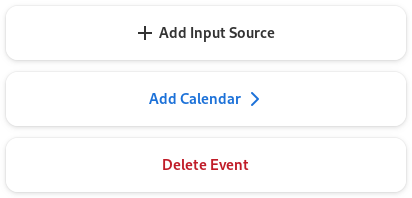
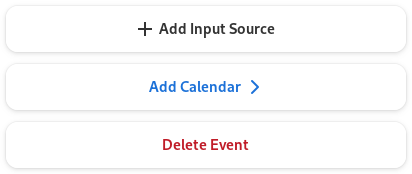
button-row: Reduce height
Fixes https://gitlab.gnome.org/GNOME/libadwaita/-/issues/845

diff --git a/src/stylesheet/widgets/_lists.scss b/src/stylesheet/widgets/_lists.scss
@@ -417,7 +417,7 @@ row.button {
     margin-left: 12px;
     margin-right: 12px;
     border-spacing: 6px;
-    min-height: 50px;
+    min-height: 42px;
   }
 
   .title {
